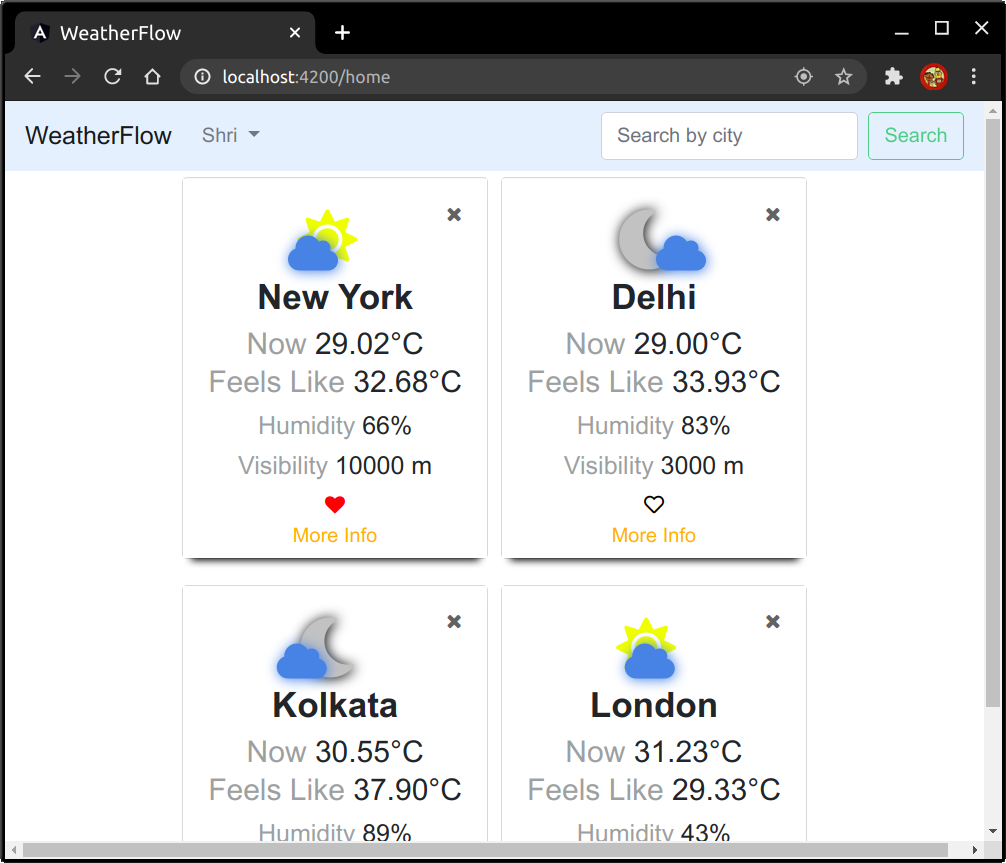
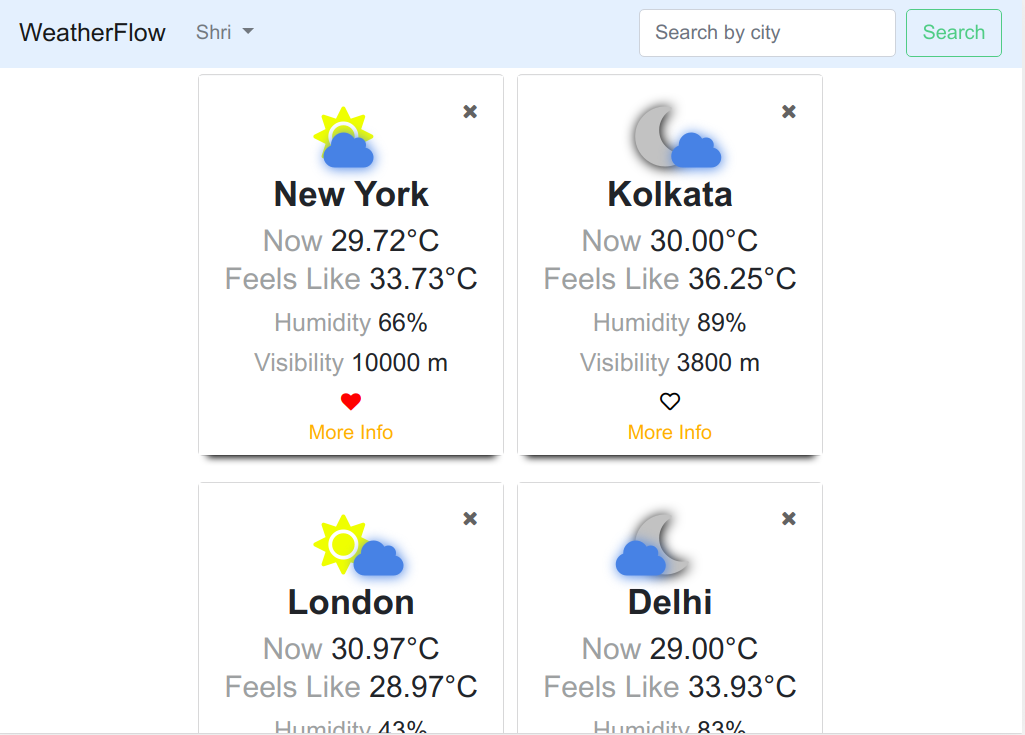
Photo Tweaks

diff --git a/style.css b/style.css
@@ -26,7 +26,7 @@
         }
         
         .texts {
-            font-size: 200%;
+            font-size: 170%;
             font-family: rick;
             color: #bdd5ec;
             margin-left: 2px;
@@ -35,6 +35,8 @@
         .project {
             box-shadow: 0 14px 28px rgba(0, 0, 0, 0.25), 0 10px 10px rgba(0, 0, 0, 0.22);
             border-radius: 5px;
+            width: 90%;
+            
         }
         
         .subtitle {
@@ -56,6 +58,7 @@
         .tags>p {
             margin: 0px;
             padding: 3px;
+            object-fit: scale-down;
             font-family: -apple-system, BlinkMacSystemFont, 'Segoe UI', Roboto, Oxygen, Ubuntu, Cantarell, 'Open Sans', 'Helvetica Neue', sans-serif;
         }
         
@@ -66,7 +69,7 @@
         }
 
         .description {
-            font-size: 150%;
+            font-size: 140%;
             font-weight: 500; 
             margin-bottom: 5px;
             color: rgb(87, 83, 83);
@@ -125,4 +128,17 @@
                 background-color: black;
                 background-image: none;
             }
+
+            .subSection {
+                padding-left: 0%;
+                padding-right: 0%;
+            }
+
+            .figure {
+                padding-right: 0px;
+                padding-left: 0px;
+                text-align: center;
+            }
+    
+
         }

diff --git a/index.html b/index.html
@@ -98,12 +98,13 @@
         </div>
     </section>
     <br>
-    <footer class="footer">
+    <footer >
+        <section class="footer">
         <a href="https://www.linkedin.com/in/shriharimohan/"> <i class="fab fa-4x fa-linkedin icons blue"> </i></a>
         <a href="https://twitter.com/papashrihari"> <i class="fab fa-4x fa-twitter-square icons lightblue"></i></a>
         <a href="https://www.facebook.com/shriharipapa"><i class="fab fa-4x fa-facebook-square icons blue "></i></a>
         <a href="https://github.com/ShrihariMohan"><i class="fab fa-4x fa-github-square icons violet"></i></a>
-        <i class="fas fa-4x fa-envelope-square icons red"></i>
+        </section>
     </footer>
 
 
